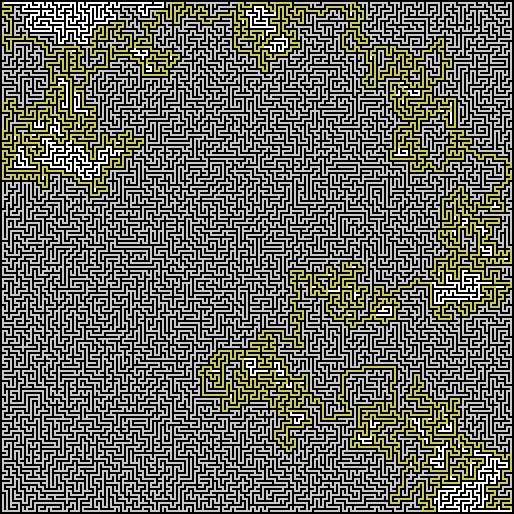
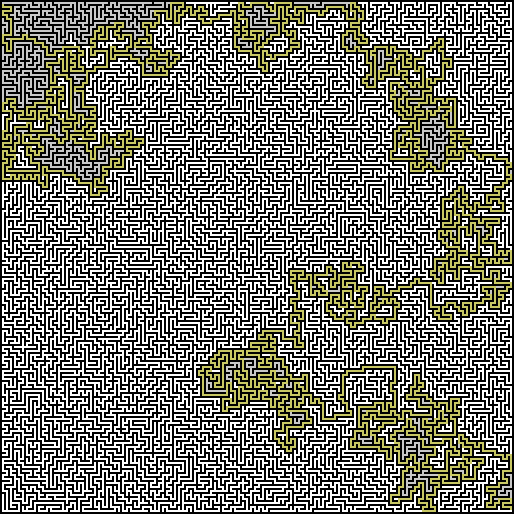
Maze solving with Tremaux's Algorithm

diff --git a/tremaux.py b/tremaux.py
@@ -1,12 +1,16 @@
 from PIL import Image
 import random
+from time import sleep
+import time
 
 def create_image(size):
 	im = Image.new("RGB", (size, size), color=(255,255,255))
 	return im
 
+
 def save_image(image, filename):
 	image.save(filename, "PNG")
+
 
 def print_graph_as_x_matrix(graph):
 	for row in graph:
@@ -21,6 +25,7 @@ def print_graph_as_x_matrix(graph):
 				print("  ",end="")
 		print(" ")
 
+
 def print_graph_special(graph, point_x, point_y):
 	for i in range(len(graph)):
 		for j in range(len(graph[i])):
@@ -32,6 +37,7 @@ def print_graph_special(graph, point_x, point_y):
 				print("  ",end="")
 		print(" ")
 
+
 def parse_cords_file(filename):
 	parsed_cords = []
 	with open(filename,"r") as input:
@@ -41,12 +47,14 @@ def parse_cords_file(filename):
 			parsed_cords.append(cords_list)
 	return parsed_cords
 
+
 def find_biggest(parsed_cords):
 	biggest = -1
 	for node in parsed_cords:
 		if node[0] > biggest:
 			biggest = node[0]
 	return biggest
+
 
 def create_empty_graph(biggest):
 	graph = []
@@ -56,6 +64,7 @@ def create_empty_graph(biggest):
 			ys.append(0)
 		graph.append(ys)
 	return graph
+
 
 def set_graph_values(graph, parsed_cords):
 	for coord in parsed_cords:
@@ -71,6 +80,7 @@ def set_graph_values(graph, parsed_cords):
 			graph[coord[0]+1][coord[1]] = 1
 		if coord[2] == 3:
 			graph[coord[0]][coord[1]] = 1
+
 
 def fix_graph_frames(graph):
 	graph_trans = []
@@ -89,6 +99,7 @@ def fix_graph_frames(graph):
 				graph_trans[i][j] = 1
 
 	return graph_trans
+
 
 def count_neighbours_with_value(graph, cords, value):
 	count = 0
@@ -169,13 +180,31 @@ def draw_graph_on_image(image, graph):
 
 def main():
 
-	# VARIABLES
+	# FILE VARIABLES
 	input_file = "labirynth_cords.txt"
 	output_file = "maze2.png"
 	small_input_file = "small_maze.txt"
 
+	# PSEUDO-COLORS VALUES
+	wall_value = 1
+	unvisited_value = 0
+	visited_once = 0.01
+	visited_twice = 0.02
+
+	# ENTRY AND EXIT
+	begin = (1, 1)
+	end = (255, 255)
+
+	# OTHER VARIABLES
+	iteration = 0
+	exit_found = False
+	debug = False
+
+	# SET CURRENT POSITION
+	current_position = (begin[0], begin[1])
+
 	# PARSING FILE
-	parsed_cords = parse_cords_file(small_input_file)
+	parsed_cords = parse_cords_file(input_file)
 
 	# CORRECTING
 	biggest = find_biggest(parsed_cords)
@@ -190,50 +219,43 @@ def main():
 	graph = fix_graph_frames(graph)
 
 	# PRINT RESULT
-	print_graph_as_x_matrix(graph)
+	# print_graph_as_x_matrix(graph)
 
-	# VARIABLES
-	wall_value = 1
-	unvisited_value = 0
-	visited_once = 0.01
-	visited_twice = 0.02
-	begin_x = 1
-	begin_y = 1
-	end_x = 31
-	end_y = 31
-	begin = (begin_x, begin_y)
-	end = (end_x, end_y)
-	current_position = (begin[0], begin[1])
+	# CREATING IMAGE OUTPUT
+	im = create_image(len(graph)*2)
 
-	debug_counter = 0
-	exit_found = False
+	start_time = time.time()
+	# FINDING PATH
+	while exit_found == False:
+		iteration += 1
 
-
-	while debug_counter < 451:
-		print(" ")
-		print(current_position)
-
+		# CHECK IF MR TREMAUX REACHED THE END
 		if current_position == end:
-			debug_counter == 999
-			print("Finished")
+			print("Time spent solving:", time.time() - start_time)
+			exit_found = True
+			#print_graph_as_x_matrix(graph)
+			draw_graph_on_image(im, graph)
+			save_image(im, output_file)
 			break
 
-		debug_counter += 1
-
+		# CHECK NUMBER OF WALLS AROUND
 		count = count_neighbours_with_value(graph,current_position, wall_value)
-		print("count:", count)
 
-
+		# IF MR TREMAUX HAS ONLY ONE WAY (THE WAY BACK)
 		if count > 2 and current_position != begin and current_position != end:
 			graph[current_position[0]][current_position[1]] += visited_twice
 		else:
+			# ELSE, IT'S A NORMAL AFTERNOON WALK
 			graph[current_position[0]][current_position[1]] += visited_once
 
+		# GET ALL POSSIBLE MOVES IN NEXT STEP
 		next_moves = get_available_moves(graph,current_position, [unvisited_value, visited_once])
 
+		# IF WE ARE ON A CROSSROADS, PREVENT FROM MARKING IT AS DEAD END
 		if len(next_moves) > 1:
 			graph[current_position[0]][current_position[1]] = visited_once
 
+		# SPLIT NEXT MOVES BASED ON PREVIOUS VISITS
 		visited =[]
 		unvisited = []
 		for move in next_moves:
@@ -242,6 +264,9 @@ def main():
 			if move[2] == visited_once:
 				visited.append(move)
 
+		# MOVE CHOICE
+		# UNVISITED PATHS HAVE HIGHER PRIORITY
+		# IF MULTIPLE STEPS ARE AVAILABLE - CHOOSE RANDOMLY
 		selected_move = []
 		if len(unvisited) > 0:
 			if len(unvisited) > 1:
@@ -256,70 +281,16 @@ def main():
 			else:
 				selected_move = visited[0]
 
+		# TAKE THE STEP
 		current_position = (selected_move[0], selected_move[1])
 
-
-		print_graph_as_x_matrix(graph)
-
-
-
-
-
-
-		# if current_position == end:
-		# 	exit_found = True
-		# 	print_graph_as_x_matrix(graph)
-		# 	im = create_image(len(graph)*2)
-		# 	draw_graph_on_image(im, graph)
-		# 	save_image(im, output_file)
-		# 	print("exit found")
-		# elif count > 2 and current_position != begin and current_position != end:
-		# 	graph[current_position[0]][current_position[1]] += visited_twice
-		# else:
-		# 	graph[current_position[0]][current_position[1]] += visited_once
-		#
-		# next_moves = get_available_moves(graph,current_position, [unvisited_value, visited_once])
-		#
-		# if len(next_moves) > 1:
-		# 	graph[current_position[0]][current_position[1]] = visited_once
-		#
-		# print_graph_as_x_matrix(graph)
-		#
-		# unvisited_paths = []
-		# visited_paths = []
-		#
-		# for move in next_moves:
-		# 	print(move)
-		# exit_found = True
-
-		# lowest_value = 9
-		# selected_moves = []
-		# selected_move = []
-		# for move in next_moves:
-		# 	if move[2] <= lowest_value:
-		# 		lowest_value = move[2]
-		#
-		# equal_moves = 0
-		# for move in next_moves:
-		# 	if move[2] == lowest_value:
-		# 		equal_moves += 1
-		#
-		# if equal_moves > 1:
-		# 	equal_moves_list = []
-		# 	for move in next_moves:
-		# 		if move[2] == lowest_value:
-		# 			equal_moves_list.append(move)
-		# 	random_number = random.randint(0, len(equal_moves_list)-1)
-		# 	print("Random choice:",  random_number)
-		# 	selected_move = equal_moves_list[random_number]
-
-
-		#current_position = (selected_move[0], selected_move[1])
-
-		#print_graph_as_x_matrix(graph)
-
-
-
+		# OPTIONAL LIVE UPDATE
+		if debug and iteration % 100 == 0:
+			try:
+				draw_graph_on_image(im, graph)
+				save_image(im, output_file)
+			except:
+				pass
 
 
 if __name__ == "__main__":
